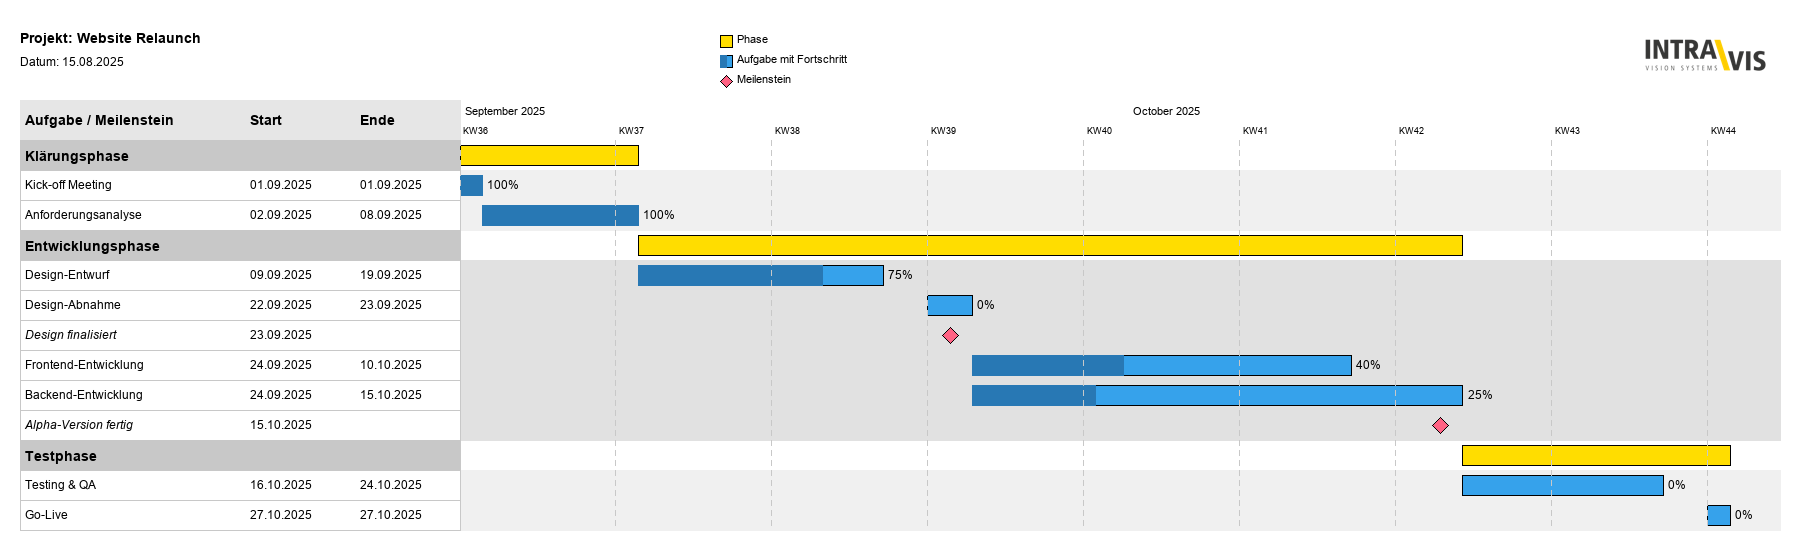
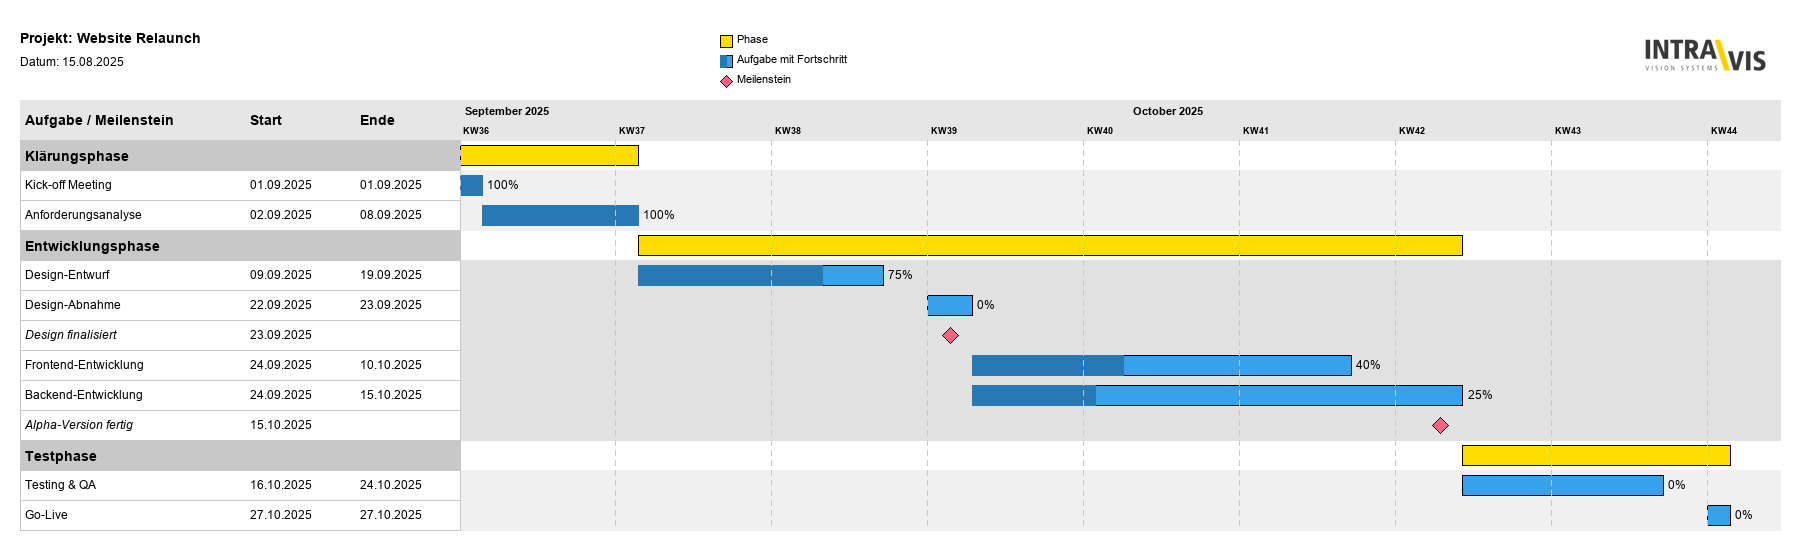
Start und Enddatum

Changed region(s): [[0.2489, 0.1545, 0.9956, 0.2782]]

diff --git a/Gantt.py b/Gantt.py
@@ -33,16 +33,16 @@ if FONT_REGULAR_PATH:
     FONT_BOLD = ImageFont.truetype(FONT_BOLD_PATH or FONT_REGULAR_PATH, 14)
     FONT_REGULAR = ImageFont.truetype(FONT_REGULAR_PATH, 12)
     FONT_ITALIC = ImageFont.truetype(FONT_ITALIC_PATH or FONT_REGULAR_PATH, 12)
-    FONT_CHART_HEADER = ImageFont.truetype(FONT_REGULAR_PATH, 11)
-    FONT_CHART_WEEK = ImageFont.truetype(FONT_REGULAR_PATH, 9)
+    FONT_CHART_HEADER_BOLD = ImageFont.truetype(FONT_BOLD_PATH or FONT_REGULAR_PATH, 11)
+    FONT_CHART_WEEK_BOLD = ImageFont.truetype(FONT_BOLD_PATH or FONT_REGULAR_PATH, 9)
     FONT_LEGEND = ImageFont.truetype(FONT_REGULAR_PATH, 11)
 else:
     print("Warnung: Keine passende Schriftart gefunden, die Umlaute unterstützt. Verwende Standard-Schriftart.")
     FONT_BOLD = ImageFont.load_default()
     FONT_REGULAR = ImageFont.load_default()
     FONT_ITALIC = FONT_REGULAR
-    FONT_CHART_HEADER = ImageFont.load_default()
-    FONT_CHART_WEEK = ImageFont.load_default()
+    FONT_CHART_HEADER_BOLD = FONT_BOLD
+    FONT_CHART_WEEK_BOLD = FONT_BOLD
     FONT_LEGEND = ImageFont.load_default()
 
 # Farben
@@ -71,14 +71,14 @@ TEXT_AREA_WIDTH = 50
 
 # --- 1. Daten definieren ---
 tasks_data = [
-    {'name': 'Kick-off Meeting', 'category': 'Klärungsphase', 'start': datetime.date(2025, 9, 1), 'duration': 1, 'completion': 100},
-    {'name': 'Anforderungsanalyse', 'category': 'Klärungsphase', 'start': datetime.date(2025, 9, 2), 'duration': 7, 'completion': 100},
-    {'name': 'Design-Entwurf', 'category': 'Entwicklungsphase', 'start': datetime.date(2025, 9, 9), 'duration': 11, 'completion': 75},
-    {'name': 'Design-Abnahme', 'category': 'Entwicklungsphase', 'start': datetime.date(2025, 9, 22), 'duration': 2, 'completion': 0},
-    {'name': 'Frontend-Entwicklung', 'category': 'Entwicklungsphase', 'start': datetime.date(2025, 9, 24), 'duration': 17, 'completion': 40},
-    {'name': 'Backend-Entwicklung', 'category': 'Entwicklungsphase', 'start': datetime.date(2025, 9, 24), 'duration': 22, 'completion': 25},
-    {'name': 'Testing & QA', 'category': 'Testphase', 'start': datetime.date(2025, 10, 16), 'duration': 9, 'completion': 0},
-    {'name': 'Go-Live', 'category': 'Testphase', 'start': datetime.date(2025, 10, 27), 'duration': 1, 'completion': 0}
+    {'name': 'Kick-off Meeting', 'category': 'Klärungsphase', 'start': datetime.date(2025, 9, 1), 'end': datetime.date(2025, 9, 1), 'completion': 100},
+    {'name': 'Anforderungsanalyse', 'category': 'Klärungsphase', 'start': datetime.date(2025, 9, 2), 'end': datetime.date(2025, 9, 8), 'completion': 100},
+    {'name': 'Design-Entwurf', 'category': 'Entwicklungsphase', 'start': datetime.date(2025, 9, 9), 'end': datetime.date(2025, 9, 19), 'completion': 75},
+    {'name': 'Design-Abnahme', 'category': 'Entwicklungsphase', 'start': datetime.date(2025, 9, 22), 'end': datetime.date(2025, 9, 23), 'completion': 0},
+    {'name': 'Frontend-Entwicklung', 'category': 'Entwicklungsphase', 'start': datetime.date(2025, 9, 24), 'end': datetime.date(2025, 10, 10), 'completion': 40},
+    {'name': 'Backend-Entwicklung', 'category': 'Entwicklungsphase', 'start': datetime.date(2025, 9, 24), 'end': datetime.date(2025, 10, 15), 'completion': 25},
+    {'name': 'Testing & QA', 'category': 'Testphase', 'start': datetime.date(2025, 10, 16), 'end': datetime.date(2025, 10, 24), 'completion': 0},
+    {'name': 'Go-Live', 'category': 'Testphase', 'start': datetime.date(2025, 10, 27), 'end': datetime.date(2025, 10, 27), 'completion': 0}
 ]
 
 milestones_data = [
@@ -90,7 +90,8 @@ milestones_data = [
 all_items = []
 for task in tasks_data:
     task['type'] = 'task'
-    task['end'] = task['start'] + timedelta(days=task['duration'] - 1)
+    # Dauer aus Start- und Enddatum berechnen
+    task['duration'] = (task['end'] - task['start']).days + 1
     all_items.append(task)
 
 for milestone in milestones_data:
@@ -127,7 +128,7 @@ IMG_WIDTH = TOTAL_IMAGE_WIDTH
 image = Image.new('RGB', (int(IMG_WIDTH), IMG_HEIGHT), COLOR_WHITE)
 draw = ImageDraw.Draw(image)
 
-# --- NEU: Header-Bereich zeichnen ---
+# --- Header-Bereich zeichnen ---
 header_y = PADDING
 
 # Oben Links: Projektinfo
@@ -181,16 +182,19 @@ draw.text((table_x + 5, table_y + 12), "Aufgabe / Meilenstein", font=FONT_BOLD, 
 draw.text((table_x + 230, table_y + 12), "Start", font=FONT_BOLD, fill=COLOR_BLACK)
 draw.text((table_x + 340, table_y + 12), "Ende", font=FONT_BOLD, fill=COLOR_BLACK)
 
+# KORREKTUR: Hintergrund für Chart-Kopfzeile
+draw.rectangle([chart_x, chart_y, chart_x + CHART_WIDTH + TEXT_AREA_WIDTH, chart_y + HEADER_HEIGHT], fill=COLOR_HEADER_BG)
+
 # Zeitachsen-Überschriften (Monat und KW)
 current_date = project_start_date
 while current_date <= project_end_date:
     if current_date.day == 1:
         month_start_x = chart_x + ((current_date - project_start_date).days * pixels_per_day)
-        draw.text((month_start_x + 5, chart_y + 5), current_date.strftime('%B %Y'), font=FONT_CHART_HEADER, fill=COLOR_BLACK)
+        draw.text((month_start_x + 5, chart_y + 5), current_date.strftime('%B %Y'), font=FONT_CHART_HEADER_BOLD, fill=COLOR_BLACK)
     if current_date.weekday() == 0:
         line_x = chart_x + ((current_date - project_start_date).days * pixels_per_day)
         week_num = current_date.isocalendar()[1]
-        draw.text((line_x + 3, chart_y + 25), f"KW{week_num}", font=FONT_CHART_WEEK, fill=COLOR_BLACK)
+        draw.text((line_x + 3, chart_y + 25), f"KW{week_num}", font=FONT_CHART_WEEK_BOLD, fill=COLOR_BLACK)
     current_date += timedelta(days=1)
 
 # Kategorien und Einträge durchlaufen
